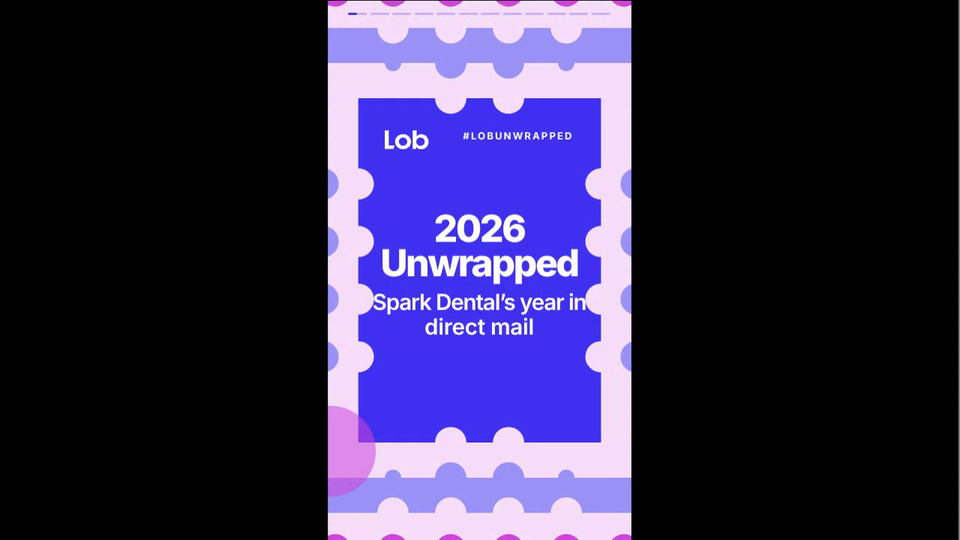
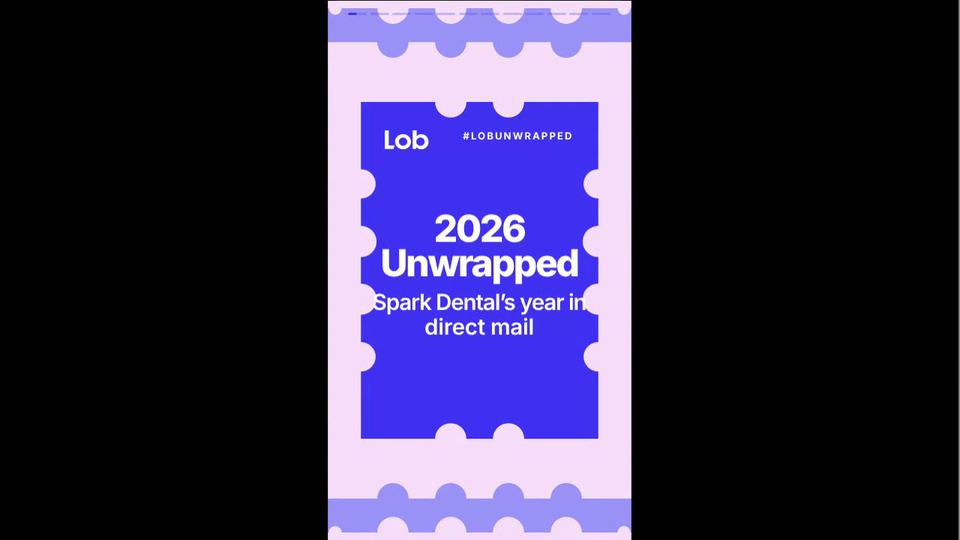
Sync Lob Unwrapped Reel with latest Lob Unwrapped styles (#576)
* Add Lob Unwrapped Reel: standalone 9:16 reel of Lob Unwrapped

Claude-Session: https://claude.ai/code/session_01AHeBdxRVStik7dwokvTaSs

* Add sync script and rule so Lob Unwrapped Reel follows Lob Unwrapped

Claude-Session: https://claude.ai/code/session_01AHeBdxRVStik7dwokvTaSs

* Re-record Lob Unwrapped Reel clip after sync

Claude-Session: https://claude.ai/code/session_01AHeBdxRVStik7dwokvTaSs

---------

diff --git a/lob-unwrapped-reel/index.html b/lob-unwrapped-reel/index.html
@@ -86,8 +86,6 @@ body{align-items:center}
   .in.col{padding:calc(var(--u)*24) calc(var(--u)*9) calc(var(--u)*20)}
   .art{align-items:start}
   .bg.edge{display:none}
-  .slide::before,.slide::after{content:"";position:absolute;z-index:0;width:30cqw;height:30cqw;border-radius:50%;background:var(--ac);opacity:.9}
-  .slide::before{right:-12cqw;top:34%}.slide::after{left:-14cqw;bottom:8%;opacity:.55}
   .burstsvg.l{display:none}.burstsvg.p{display:block;width:100%;height:78%}
   .bg.c{left:50%;top:50%;width:205cqw;height:auto;aspect-ratio:160/90;right:auto;bottom:auto;transform:translate(-50%,-50%)}
 }
@@ -119,6 +117,7 @@ body{align-items:center}
 
 /* ---------- parts ---------- */
 .pc{display:block;width:100%;height:auto}
+.tpiece{position:absolute;z-index:1;height:auto}
 .tun{display:block;width:100%;height:100%}
 .spin{animation:spin 14s linear infinite;transform-box:view-box}
 @keyframes spin{to{transform:rotate(360deg)}}
@@ -357,7 +356,7 @@ SL.push({t:'mag',n:'PURL clicks',d:7000,purl:1,bg:'<canvas class="tun bgc" data-
 SL.push({t:'blue',n:'Results',d:6500,bg:T('star',[PW,B,M3,B],{pts:12,n:9,per:2.6,rot:8},'bgc'),pre:bigStamp(MG,false),h:
   '<div class="in ctr"><div class="tx" style="color:#fff;gap:calc(var(--u)*2.6)">'+R(0,'What it added up to','div','k')+R(1,C(D.rev,'usd'),'div','big lg')+R(2,'in revenue from <i style="color:#f7dffa">mail</i>','div','lead')+'</div></div>'});
 /* 9 delivery */
-SL.push({t:'blue',n:'Speed & quality',d:6500,bg:'<canvas class="tun bgc" data-trail="purl" data-x0=".535" data-w=".33" data-ratio="1.3" data-py=".8"></canvas>',h:
+SL.push({t:'blue',n:'Speed & quality',d:6500,bg:'<canvas class="tun bgc" data-trail="strips" data-x0=".535" data-w=".36" data-ratio="1.5625" data-py=".8"></canvas>'+piece('stamp','pk',false).replace('<svg class="pc"','<svg class="pc tpiece"'),h:
   '<div class="in"><div class="tx">'+R(0,'Delivery','div','k')+R(1,C(D.days,'d1')+'<small style="margin-left:.5em">days</small>','div','big lg')+R(2,'average time to <i>mailbox</i>','div','lead')+
   '</div></div>'});
 /* 10 persona: scalloped mandala rings turning around a big flat circle */
@@ -464,13 +463,13 @@ function stampRamp(c,x,y,w,h,sp,rn){var P=Math.PI,m=sp*.95,cx=x+w/2,cy=y+h/2,hw=
   c.lineTo(x,y+h);
   for(j=nv-1;j>=-nv;j--){pos=(j+.5)*sp;rr=rad(pos,hh);if(rr>.6){c.lineTo(x,cy+pos+rr);c.arc(x,cy+pos,rr,P/2,-P/2,true)}}
   c.closePath()}
-/* slide 1: a steady 1.5 s beat. The stamp lifts a little, presses in, and eases back out; at the press the stamp behind it is pushed out and the push travels outward through the rest as a smooth wave, with no pause between beats */
-function pressSeq(ctx,cols,cx,cy,hw,hh,W,Hh,T){var L=cols.length,N=11,gap=Hh*.065,sp=Hh*.107,rn=Hh*.029,ph=(T/1.5)%1,k,x,b,off,hwk,hhk,sc,u;
+/* slide 1: a steady, gentle 1.7 s beat. The stamp lifts a little, presses in, and eases back out; at the press the stamp behind it is pushed out and the push travels outward through the rest as a smooth wave, with no pause between beats */
+function pressSeq(ctx,cols,cx,cy,hw,hh,W,Hh,T){var L=cols.length,N=11,gap=Hh*.065,sp=Hh*.107,rn=Hh*.029,ph=(T/1.7)%1,k,x,b,off,hwk,hhk,sc,u;
   function sm(v){v=Math.max(0,Math.min(1,v));return v*v*(3-2*v)}
   ctx.fillStyle=cols[(N+1)%L];ctx.fillRect(0,0,W,Hh);
-  for(k=N;k>=1;k--){x=(((ph-.25-.055*(k-1))%1)+1)%1;off=k*gap;if(x<.65){b=Math.sin(Math.PI*x/.65);off+=gap*1.6*Math.pow(.8,k-1)*b*b}
+  for(k=N;k>=1;k--){x=(((ph-.25-.055*(k-1))%1)+1)%1;off=k*gap;if(x<.65){b=Math.sin(Math.PI*x/.65);off+=gap*.8*Math.pow(.75,k-1)*b*b}
     hwk=hw+off;hhk=hh+off;ctx.beginPath();stampRamp(ctx,cx-hwk,cy-hhk,2*hwk,2*hhk,sp,rn);ctx.fillStyle=cols[k%L];ctx.fill()}
-  if(ph<.25){u=ph/.25;sc=u<.35?1+.03*sm(u/.35):1.03-.15*sm((u-.35)/.65)}else sc=.88+.12*sm((ph-.25)/.75);
+  if(ph<.25){u=ph/.25;sc=u<.35?1+.012*sm(u/.35):1.012-.072*sm((u-.35)/.65)}else sc=.94+.06*sm((ph-.25)/.75);
   ctx.beginPath();stampRamp(ctx,cx-hw*sc,cy-hh*sc,2*hw*sc,2*hh*sc,sp,rn);ctx.fillStyle='#4131f1';ctx.fill()}
 function tunnel(cv,tk){var d=cv.dataset,ctx=cv.getContext('2d'),dpr=Math.min(1.5,window.devicePixelRatio||1),pats=[],sets=[],cols=d.cols.split('|').map(function(c,ci){if(/^check:/.test(c)){var set=[0,1,2,3].map(function(sd){var pt=mkPat(ctx,c,dpr,sd);pats.push(pt);return pt});sets[ci]=set;return set[0]}if(/^diag:/.test(c)){var pd=mkPat(ctx,c,dpr,0);pats.push(pd);return pd}return c}),per=+d.per||2.4,t0=performance.now(),slide=cv.closest('.slide'),art=d.at?slide.querySelector('.art'):null,stamps=d.press==='1'?slide.querySelectorAll('.burstsvg'):null,from=d.from?slide.querySelector(d.from):null;
   (function f(now){if(tk!==token)return;var s=fit(cv),t=RM?.35:(now-t0)/1000/per,cx=s[0]/2,cy=s[1]/2,o=(now/22)%(28*dpr),asp=+d.asp||1,base=0,cr=cv.getBoundingClientRect(),k=cr.width?s[0]/cr.width:1,ph=t-Math.floor(t);
@@ -489,6 +488,7 @@ function trail(cv,tk){var d=cv.dataset,ctx=cv.getContext('2d'),t0=performance.no
     if(port){w=W*.66;x0=(W-w)/2;h=w/rt;g=h*.085*breathe;y0=Hh*(+d.py||.7)-h/2}else{w=W*fw;x0=W*fx0;h=w/rt;g=h*.075*breathe;y0=(Hh-h)/2}
     cx=x0+w/2;cy=y0+h/2;ctx.clearRect(0,0,W,Hh);
     for(i=5;i>=1;i--){ctx.beginPath();rrect(ctx,x0,y0+i*g,w,h,h*.04);ctx.fillStyle='rgba('+(d.strip||'208,69,220')+','+(op[i-1]*(RM?1:.8+.2*Math.sin(t*2.2-i*.8)))+')';ctx.fill()}
+    if(d.trail==='strips'){var pe=cv.closest('.slide').querySelector('.tpiece'),cr2=cv.getBoundingClientRect(),kk=cr2.width?W/cr2.width:1;if(pe){pe.style.left=(x0/kk)+'px';pe.style.top=(y0/kk)+'px';pe.style.width=(w/kk)+'px'}if(!RM)requestAnimationFrame(f);return}
     ctx.save();ctx.beginPath();rrect(ctx,x0,y0,w,h,h*.04);ctx.clip();
     rings(ctx,d.trail==='purl'?'mix':'rect',d.trail==='purl'?(d.pal==='mag'?['#4131f1','#f7dffa','#f5f5fe','#e28deb']:['#4131f1','#d045dc','#f7dffa','#f5f5fe']):['#ffffff','#f5f5fe'],w,h,cx,cy,7,t/1.7,rt,0,0,10,0);
     if(d.trail==='purl'){ctx.beginPath();ctx.arc(cx,cy,h*.3,0,6.2832);ctx.fillStyle='#4131f1';ctx.fill();ringPath(ctx,'star',cx,cy,h*.25,1,10,t*.9);ctx.fillStyle='#f5f5fe';ctx.fill();ctx.beginPath();ctx.arc(cx,cy,h*.06,0,6.2832);ctx.fillStyle='#d045dc';ctx.fill()}
@@ -503,18 +503,28 @@ var K=Math.cos(38*Math.PI/180),DOTS=null;
 function inside(x,y){var c=false;for(var i=0,j=US.length-1;i<US.length;j=i++){var a=US[i],b=US[j];if((a[1]>y)!==(b[1]>y)&&x<(b[0]-a[0])*(y-a[1])/(b[1]-a[1])+a[0])c=!c}return c}
 function dots(){if(DOTS)return DOTS;DOTS=[];var st=.42;
   for(var la=49.6;la>24.4;la-=st)for(var lo=-125;lo<-66.5;lo+=st/K*1){if(!inside(lo,la))continue;var d=1e9;MET.forEach(function(m){var dx=(lo-m[1])*K,dy=la-m[0];d=Math.min(d,Math.sqrt(dx*dx+dy*dy))});
-    var h=Math.abs(Math.sin(lo*12.9898+la*78.233)*43758.5453)%1;DOTS.push({x:(lo+125)*K,y:49.6-la,s:d+h*2.6,rg:lo<-104?0:lo<-92?1:(lo>=-80&&la>=38)?4:la>=38?2:3})}
+    var h=Math.abs(Math.sin(lo*12.9898+la*78.233)*43758.5453)%1;DOTS.push({x:(lo+125)*K,y:49.6-la,s:d+h*2.6,rw:Math.round((49.6-la)/st),cl:Math.round(((lo+125)*K)/st)})}
   DOTS.sort(function(a,b){return a.s-b.s});DOTS.forEach(function(d,i){d.r=i/DOTS.length});return DOTS}
-function drawMap(cv,tk){var ds=dots(),ctx=cv.getContext('2d'),t0=performance.now()+300,ph=cv.closest('.slide').querySelector('.map'),reg=[1,1,1,1,1].map(function(){return{f:1,to:1}}),last=performance.now(),nextEv=3.4,grid=null,gk='',rank=[],order=ds.map(function(d,i){return i}).sort(function(a,b){return Math.round(ds[a].y*1000)-Math.round(ds[b].y*1000)||ds[a].x-ds[b].x});
+/* 60% of the cells belong to groups of 5 to 10 neighbouring cells; each group swells and shrinks on its own clock */
+var GRP=null;
+function buildGroups(ds){if(GRP)return GRP;var N=ds.length,idx={},rs=2024,gm=[],mi=[],st=[],groups=[],i,seeds,count=0,target=Math.round(N*.6);
+  function rnd(){rs=(rs*16807)%2147483647;return rs/2147483647}
+  ds.forEach(function(d,i){idx[d.rw+','+d.cl]=i;gm[i]=-1;st[i]=0});
+  seeds=ds.map(function(d,i){return i}).sort(function(){return rnd()-.5});
+  for(i=0;i<seeds.length&&count<target;i++){var sd=seeds[i];if(st[sd])continue;var size=5+Math.floor(rnd()*6),q=[sd],mem=[],g=groups.length;st[sd]=1;
+    while(q.length&&mem.length<size){var c=q.shift(),dr,dc,j;mem.push(c);for(dr=-1;dr<=1;dr++)for(dc=-1;dc<=1;dc++){j=idx[(ds[c].rw+dr)+','+(ds[c].cl+dc)];if(j!==undefined&&!st[j]){st[j]=1;q.push(j)}}}
+    q.forEach(function(j){st[j]=0});
+    if(mem.length<5){mem.forEach(function(j){st[j]=0});continue}
+    mem.forEach(function(j,k){gm[j]=g;mi[j]=k});groups.push({per:2.2+rnd()*2,ph:rnd()});count+=mem.length}
+  GRP={gm:gm,mi:mi,groups:groups};return GRP}
+function drawMap(cv,tk){var ds=dots(),ctx=cv.getContext('2d'),t0=performance.now()+300,ph=cv.closest('.slide').querySelector('.map'),GR=buildGroups(ds),grid=null,gk='',rank=[],order=ds.map(function(d,i){return i}).sort(function(a,b){return Math.round(ds[a].y*1000)-Math.round(ds[b].y*1000)||ds[a].x-ds[b].x});
   order.forEach(function(idx,k){rank[idx]=k});
   (function f(now){if(tk!==token)return;var sz=fit(cv),W=sz[0],Hh=sz[1],cr=cv.getBoundingClientRect(),pr=ph.getBoundingClientRect(),k=W/cr.width,N=ds.length,
     mx=(pr.left-cr.left)*k,my=(pr.top-cr.top)*k,mw=pr.width*k,mh=pr.height*k,MW=59.5*K,MH=25.4,sc=Math.min(mw/MW,mh/MH),ox=mx+(mw-MW*sc)/2,oy=my+(mh-MH*sc)/2,cell=.42*sc,
-    T=RM?9:(now-t0)/1000,dt=Math.min(.1,(now-last)/1000),i,j,d,h,p,fx,fy,sx,sy,idx,ci,cj,side,s0,M,lit,ea,fc,a0,a1,q;last=now;
+    T=RM?9:(now-t0)/1000,i,j,d,h,p,fx,fy,sx,sy,idx,ci,cj,side,s0,M,lit,ea,fc,a0,a1,q,gf,gg,amp=RM?0:ease(Math.max(0,Math.min(1,(T-3)/.8)));
     var key=W+'x'+Hh+':'+Math.round(mx/8)+','+Math.round(my/8);
     if(gk!==key){var pt=Hh>W,cw=pt?W*.94:W*.5,ch=pt?Hh*.43:Hh*.8,ccx=ox+MW*sc/2,ccy=oy+MH*sc/2,gx=pt?(W-cw)/2:Math.max(W*.5,Math.min(W-cw,ccx-cw/2)),gy=Math.max(0,Math.min(Hh-ch,ccy-ch/2));s0=Math.sqrt(cw*ch/(N*1.12));grid={s:s0,x:gx,y:gy,cols:Math.ceil(cw/s0),rows:Math.ceil(ch/s0)};gk=key;grid.M=grid.cols*grid.rows;grid.chosen={};for(i=0;i<N;i++)grid.chosen[Math.floor(i*(grid.M/N))]=1}
     s0=grid.s;M=grid.M;
-    if(T>nextEv&&!RM){var rr=reg[Math.floor(Math.random()*5)];rr.to=rr.f>.9?[.28,.42,.58][Math.floor(Math.random()*3)]:1;nextEv=T+1.1}
-    reg.forEach(function(rg){rg.f+=(rg.to-rg.f)*(1-Math.exp(-dt*3.2))});
     ctx.clearRect(0,0,W,Hh);
     ea=Math.max(0,Math.min(1,T/.5));
     /* the checkerboard squares that do not become map cells fade out */
@@ -522,7 +532,7 @@ function drawMap(cv,tk){var ds=dots(),ctx=cv.getContext('2d'),t0=performance.now
     if(fc<1)for(idx=0;idx<M;idx++){if(grid.chosen[idx])continue;ci=idx%grid.cols;cj=Math.floor(idx/grid.cols);ctx.fillStyle=(ci+cj)%2?'rgba(255,255,255,'+.16*ea*(1-fc)+')':'rgba(247,223,250,'+.9*ea*(1-fc)+')';ctx.fillRect(grid.x+ci*s0,grid.y+cj*s0,s0*(1-fc*.6)+.5,s0*(1-fc*.6)+.5)}
     for(i=0;i<N;i++){d=ds[i];idx=Math.floor(rank[i]*(M/N));ci=idx%grid.cols;cj=Math.floor(idx/grid.cols);sx=grid.x+(ci+.5)*s0;sy=grid.y+(cj+.5)*s0;
       h=((i*2654435761)>>>0)%1000/1000;p=ease(Math.max(0,Math.min(1,(T-(.9+h*.9))/1)));
-      fx=ox+d.x*sc;fy=oy+d.y*sc;lit=d.r<D.pct/100;side=s0*(1-p)+cell*.9*(p<1?1:reg[d.rg].f)*p;
+      fx=ox+d.x*sc;fy=oy+d.y*sc;lit=d.r<D.pct/100;gf=1;gg=GR.gm[i];if(gg>=0)gf=1+.55*amp*Math.sin(6.2832*((T/GR.groups[gg].per+GR.groups[gg].ph+GR.mi[i]*.03)%1));side=s0*(1-p)+cell*.9*gf*p;
       a0=(ci+cj)%2?.16:.9;a1=lit?.95:.24;q=(ci+cj)%2?255:247;
       ctx.fillStyle='rgba('+Math.round(q+(lit?247-q:255-q)*p)+','+Math.round((ci+cj)%2?255:223)+','+Math.round((ci+cj)%2?255:250)+','+((a0+(a1-a0)*p)*ea)+')';
       ctx.fillRect(sx+(fx-sx)*p-side/2,sy+(fy-sy)*p-side/2,side,side)}

diff --git a/tools/sync-lob-reel.py b/tools/sync-lob-reel.py
@@ -1,0 +1,19 @@
+#!/usr/bin/env python3
+"""Regenerate lob-unwrapped-reel/index.html from lob-unwrapped/index.html.
+The reel is the same page forced to a 9:16 stage with only the progress bars.
+Run after ANY change to lob-unwrapped/index.html, then re-record the clip:
+  python3 tools/sync-lob-reel.py && NODE_PATH=$(npm root -g) node tools/record-clips.js lob-unwrapped-reel
+"""
+s = open('lob-unwrapped/index.html').read()
+def rep(a, b):
+    global s
+    assert a in s, 'source changed, update the transform: ' + a[:60]
+    s = s.replace(a, b)
+rep('.stage{position:relative;flex:none;width:min(100vw,calc((100dvh - 49px)*16/9));height:min(calc(100dvh - 49px),calc(100vw*9/16));',
+    '.stage{position:relative;flex:none;width:min(100vw,calc((100dvh - 49px)*9/16));height:min(calc(100dvh - 49px),calc(100vw*16/9));')
+rep('@media(max-aspect-ratio:1/1){.stage{width:100vw;height:calc(100dvh - 49px)}}\n', '')
+rep('<title>Lob Unwrapped</title>', '<title>Lob Unwrapped Reel</title>')
+rep('<b>Lob Unwrapped</b></nav>', '<b>Lob Unwrapped Reel</b></nav>')
+rep('lob-unwrapped/thumb.png', 'lob-unwrapped-reel/thumb.png')
+rep('.clip .toast{display:none}', '.clip .toast{display:none}\n/* standalone reel: just the 9:16 picture and its progress bars */\n#hShare,.dock{display:none!important}\nbody{align-items:center}')
+open('lob-unwrapped-reel/index.html', 'w').write(s)

diff --git a/CLAUDE.md b/CLAUDE.md
@@ -11,3 +11,5 @@ Also add the app's `<nav>` "Sandbox / Back to all projects" bar linking to `../`
 open a pull request into the default branch, merge it, and confirm the Pages deploy succeeded and the app and its homepage tile are on the live site (https://kristynagottvald.github.io/sandbox/).
 
 **Skills.** Repeatable procedures live in `.claude/skills/` (committed, so every session has them). Use them instead of reconstructing the steps: `sandbox-add-app` (new app, homepage tile), `rerecord-clip` (home page clips), `ship-to-pages` (commit, PR, merge, confirm live, without force-pushing), `sandbox-visual-check` (Playwright screenshots and interaction checks before shipping), `brand-system-page` and `brand-guidelines-site` (brand pages, reusing a generator's engine, tile-to-section transition), `canvas-card-maker` (canvas card tools with timeline, export, themes and ported motions), plus the motion and engine skills in that folder.
+
+**Lob Unwrapped Reel is a generated copy.** `lob-unwrapped-reel/index.html` is built from `lob-unwrapped/index.html` by `tools/sync-lob-reel.py`. Whenever `lob-unwrapped/` changes (any session), run that script, re-record the reel clip, and ship both together. Never hand-edit the reel's index.html.
